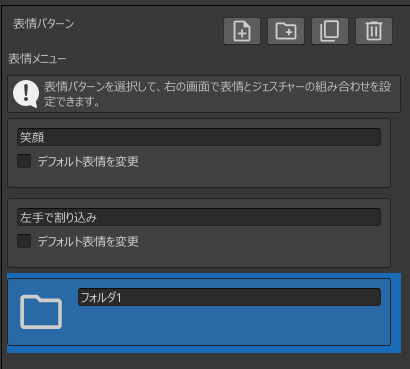
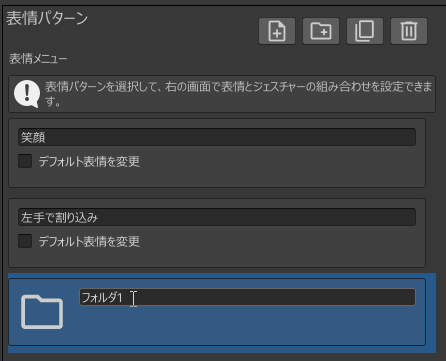
docs: Update documents

Changed region(s): [[0.0, 0.0305, 0.9951, 1.0], [0.5268, 0.0305, 0.9366, 0.1219]]

diff --git a/docs/docs/tutorials/many-modes/index.md b/docs/docs/tutorials/many-modes/index.md
@@ -1,0 +1,104 @@
+---
+sidebar_position: 3
+sidebar_label: Creating a Variety of Expression Patterns
+---
+
+# Creating a Variety of Expression Patterns
+
+Let's add a lot of expression patterns and make them switchable in the Expression Menu.
+
+## Adding Folders
+
+To create a lot of expression patterns, you need to group them, as there is a limit to the number of items that can be added to the Expression Menu.
+Click on the second button from the left in the "Expression Patterns" view and try adding a folder.
+
+![Add folder](add_group.png)
+
+You can change the name of the folder freely. This time, we will change it to "Folder1".
+
+![Rename folder](rename_group.png)
+
+## Switching Display Hierarchy
+
+When you double-click "Folder1", the contents of "Folder1" will be displayed in the "Expression Patterns" view.
+
+![Folder1](group1.png)
+
+If you want to go back to the hierarchy that was displayed earlier, click on the "Expression Menu" in the "Tree View
+
+![Select in Tree View](select_hierarchy.png)
+
+When you click "▶" in the "Tree View", the contents of the folder will be displayed.  
+Here, if you click on "Folder1" in the "Tree View", the contents of "Folder1" will be displayed again.
+
+![Select in Tree View 2](select_hierarchy2.png)
+
+:::tip
+### About "Expression Menu" and "Archive"
+
+"Expression Menu" and "Archive" are folders that are added by default.
+
+- Expression Menu: The expression patterns and folders in this menu will be applied to the avatar
+- Archive: The expression patterns and folders in this menu will not be applied to the avatar
+
+Use the "Archive" to store things you want to temporarily remove from the avatar but don't want to delete.
+:::
+
+:::tip
+Expression patterns and folders can be moved by drag & drop. 
+You can also move between the Tree View and the Expression Patterns View.
+:::
+
+## Adding Expression Patterns
+
+While displaying "Folder1" in the "Expression Patterns" view, add several expression modes.  
+
+![Add patterns](add_modes.png)
+
+:::tip
+- A folder can store up to 8 expression patterns or folders
+- The "Expression Menu" can store up to 6 expression patterns or folders
+- The "Archive" can store an unlimited number of expression patterns or folders
+:::
+
+After adding the expression patterns, set an expression for each expression pattern.  
+This time, check "Change Default Expression" and try to make it switchable in the Expression Menu.
+
+![Change Default Expression](change_default_face.png)
+
+:::tip
+Changing expressions in the Expression Menu can also be done in the [automatically generated "Emote Select" menu](../../optional-functions/emote-lock/).  
+Choose between the two depending on your preferences, as changing expressions with "Change Default Expression" has the following advantages:
+- It's easy to switch because you can add items to a shallow hierarchy
+- You can set facial changes by hand gestures
+:::
+
+Set the facial animation for the default face in the same way as setting the facial animation in the "Expressions" view.
+
+![Add clip](add_clip.png)
+
+![Change Default Expression 2](change_default_face2.png)
+
+By checking "Use ClipName as PatternName", you can automatically set the name of the expression pattern.
+
+![Use Animation Name as Pattern Name](use_clip_name.png)
+
+Similarly, set the default face for other expression patterns.  
+Please also adjust settings for blinking and other actions appropriately.
+
+![Set expressions](set_expressions.png)
+
+Let's set hand gestures for some expression patterns.  
+Select the "Wink" expression pattern and set it in the "Expressions" view as shown in the figure below.
+
+![Wink tongue out](wink_tang.png)
+
+## Applying the Expression Menu to the Avatar
+
+Once you've done this, the creation of the expression menu is complete when you execute "Apply to Avatar".  
+Upload the avatar and confirm that it behaves as follows:
+
+- You can switch expressions in the Expression Menu
+- When you make either hand Victory in the "Wink" expression pattern, the expression changes
+
+![Preview](preview.png)

diff --git a/docs/i18n/ja/docusaurus-plugin-content-docs/current/tutorials/simple-menu/index.md b/docs/i18n/ja/docusaurus-plugin-content-docs/current/tutorials/simple-menu/index.md
@@ -59,7 +59,7 @@ sidebar_label: 簡単な表情メニューを作る
 ---
 ## 表情アニメーションを作成する
 
-表情サムネイルにカーソルを合わせるとボタンが表示されるので、左上のボタンを押します。
+表情サムネイルにマウスカーソルを合わせるとボタンが表示されるので、左上のボタンを押します。
 
 ![クリップ追加ボタン](add_clip_button.png)
 
@@ -72,36 +72,22 @@ sidebar_label: 簡単な表情メニューを作る
 ![表情エディタ起動](launch_expression_editor.png)
 
 :::tip
-シェイプキーの区切り文字を入力することで、シェイプキーをカテゴリごとに表示することができます。
-
-- シェイプキーの区切り文字はアバターごとに異なります
-    - 「=====Eye=====」のようなカテゴリ名となっている場合、「=====」と入力してください
-    - 「\*\*\*\*\*Eye\*\*\*\*\*」のようなカテゴリ名となっている場合、「\*\*\*\*\*」と入力してください
-
-![シェイプキー区切り文字](blendshape_delimiter.png)
+表情エディタでは、表情アニメーションの編集を行うことができます。  
+表情エディタについては、[リファレンス > 表情エディタ](../../reference/expression-editor)で詳しく説明しています。
 :::
 
-
-「▶」をクリックするとシェイプキーのカテゴリが開き、シェイプキーの名前がリストで表示されます。  
-表情アニメーションに追加したいシェイプキーをクリックするとシェイプキーが追加され、プレビューが更新されます。
-
-- シェイプキーの値を変更したい場合、各シェイプキーのスライダーを動かすか、テキストボックスに数値を入力します
+表情アニメーションに追加したいシェイプキーをクリックするとシェイプキーが追加され、プレビューが更新されます。  
+シェイプキーの値を変更したい場合、各シェイプキーのスライダーを動かすか、テキストボックスに数値を入力します
 
 ![シェイプキー追加](add_blendshape.png)
 
 :::caution
 シェイプキーを追加したとき、下記の警告が出ていないか確認してください。
-- 「まばたき用シェイプキーが含まれています！」 -  まばたきアニメーションに上書きされ、表情アニメーションが正しく再生されない可能性があります
-- 「リップシンク用シェイプキーが含まれています！」 -  リップシンクが正しく動かなくなる可能性があります
-:::
 
-プレビュー画面は、Unityのシーンビューと同様の操作で移動・回転・拡大縮小することが可能です。
-
-![表情エディタプレビュー](preview_expression_editor.png)
-
-:::tip
-プレビュー画面のカメラ設定はシーンビューの設定を引き継ぎます。  
-たとえば、シーンビューでFOVを変更して作業している場合、プレビュー画面にも変更したFOVが適用されます。
+|<center>警告メッセージ</center>|<center>説明</center>|
+|:-|:-|
+|「まばたき用シェイプキーが含まれています！」|まばたきアニメーションに上書きされ、<br/>表情アニメーションが正しく再生されない可能性があります。|
+|「リップシンク用シェイプキーが含まれています！」|リップシンクが正しく動かなくなる可能性があります。|
 :::
 
 笑顔の表情アニメーションを再生しているときにまばたきが発生すると表情が破綻してしまうので、「まばたき有効」をオフにします。

diff --git a/docs/i18n/ja/docusaurus-plugin-content-docs/current/reference/expression-editor/index.md b/docs/i18n/ja/docusaurus-plugin-content-docs/current/reference/expression-editor/index.md
@@ -1,0 +1,72 @@
+---
+sidebar_position: 3
+sidebar_label: 表情エディタ
+---
+
+# 表情エディタ
+
+表情エディタでは、表情アニメーションの編集を行うことができます。
+
+## 表情エディタを開く
+
+表情サムネイルにマウスカーソルを合わせると、表情アニメーションに関する操作を行うボタンが表示されます。  
+ここで、「開く」以外のボタンを押すと表情エディタが開きます。
+
+![シェイプキー追加](thumbnail_mouseover.png)
+
+|<center>アクション</center>|<center>ボタン位置</center>|<center>説明</center>|
+|:-:|:-:|:-|
+|新規作成|左上|新しいアニメーションクリップを作成します。<br/>表情エディタを開き、新しく作成されたアニメーションクリップを編集します。|
+|開く|右上|既存のアニメーションクリップを開きます。|
+|コピー|左下|既存のアニメーションクリップをコピーして、新しいアニメーションクリップを作成します。<br/>表情エディタを開き、新しく作成されたアニメーションクリップを編集します。|
+|編集|右下|表情エディタを開き、セットされているアニメーションクリップを編集します。|
+
+---
+
+## シェイプキーを追加する
+
+表情アニメーションに追加したいシェイプキーをクリックするとシェイプキーが追加され、プレビューが更新されます。  
+シェイプキーの値を変更したい場合、各シェイプキーのスライダーを動かすか、テキストボックスに数値を入力します
+
+![シェイプキー追加](add_blendshape.png)
+
+:::caution
+シェイプキーを追加したとき、下記の警告が出ていないか確認してください。
+
+|<center>警告メッセージ</center>|<center>説明</center>|
+|:-|:-|
+|「まばたき用シェイプキーが含まれています！」|まばたきアニメーションに上書きされ、<br/>表情アニメーションが正しく再生されない可能性があります。|
+|「リップシンク用シェイプキーが含まれています！」|リップシンクが正しく動かなくなる可能性があります。|
+:::
+
+---
+
+## シェイプキーをカテゴリごとに表示する
+
+シェイプキーの区切り文字を入力することで、シェイプキーをカテゴリごとに表示することができます。
+
+シェイプキーの区切り文字はアバターごとに異なります。
+- 「=====Eye=====」のようなカテゴリ名となっている場合、「=====」と入力してください
+- 「\*\*\*\*\*Eye\*\*\*\*\*」のようなカテゴリ名となっている場合、「\*\*\*\*\*」と入力してください
+
+![シェイプキー区切り文字](blendshape_delimiter.png)
+
+---
+
+## プレビュー画面を操作する
+
+プレビュー画面は、Unityのシーンビューと同様の操作で移動・回転・拡大縮小することが可能です。
+
+プレビュー画面のカメラ設定はシーンビューの設定を引き継ぎます。  
+たとえば、シーンビューでFOVを変更して作業している場合、プレビュー画面にも変更したFOVが適用されます。
+
+![表情エディタプレビュー](preview_expression_editor.png)
+
+---
+
+## レイアウトを変更する
+
+表情エディタのウインドウ配置は自由に変更することができます。
+変更したウインドウ配置は、次回起動時にも反映されます。
+
+![レイアウト変更](change_layout.png)

diff --git a/docs/i18n/ja/docusaurus-plugin-content-docs/current/tutorials/many-modes/index.md b/docs/i18n/ja/docusaurus-plugin-content-docs/current/tutorials/many-modes/index.md
@@ -68,7 +68,7 @@ Expression Menuに追加できる項目の数には限りがあるため、
 ![デフォルト表情変更](change_default_face.png)
 
 :::tip
-Expression Menuでの表情切り替えは、自動生成される「表情指定」メニューでも行うことができます。  
+Expression Menuでの表情切り替えは、[自動生成される「表情選択」メニュー](../../optional-functions/emote-lock/)でも行うことができます。  
 「デフォルト表情を変更」での表情切り替えには下記の利点があるので、好みに応じて使い分けてください。
 - 浅い階層に項目を追加できるので、切り替えがしやすい
 - ハンドジェスチャーによる表情変化を設定できる

diff --git a/docs/i18n/ja/docusaurus-plugin-content-docs/current/reference/gesture-table/index.md b/docs/i18n/ja/docusaurus-plugin-content-docs/current/reference/gesture-table/index.md
@@ -1,5 +1,5 @@
 ---
-sidebar_position: 3
+sidebar_position: 4
 sidebar_label: ジェスチャー表
 ---
 
